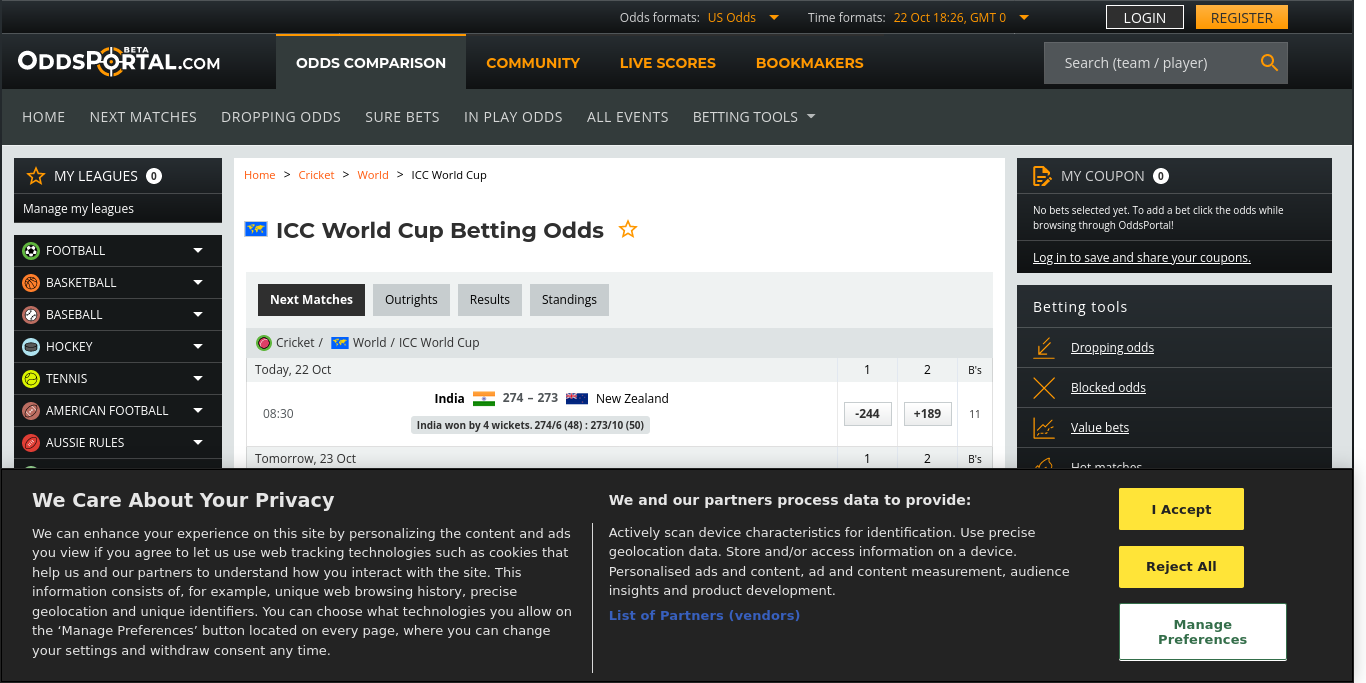
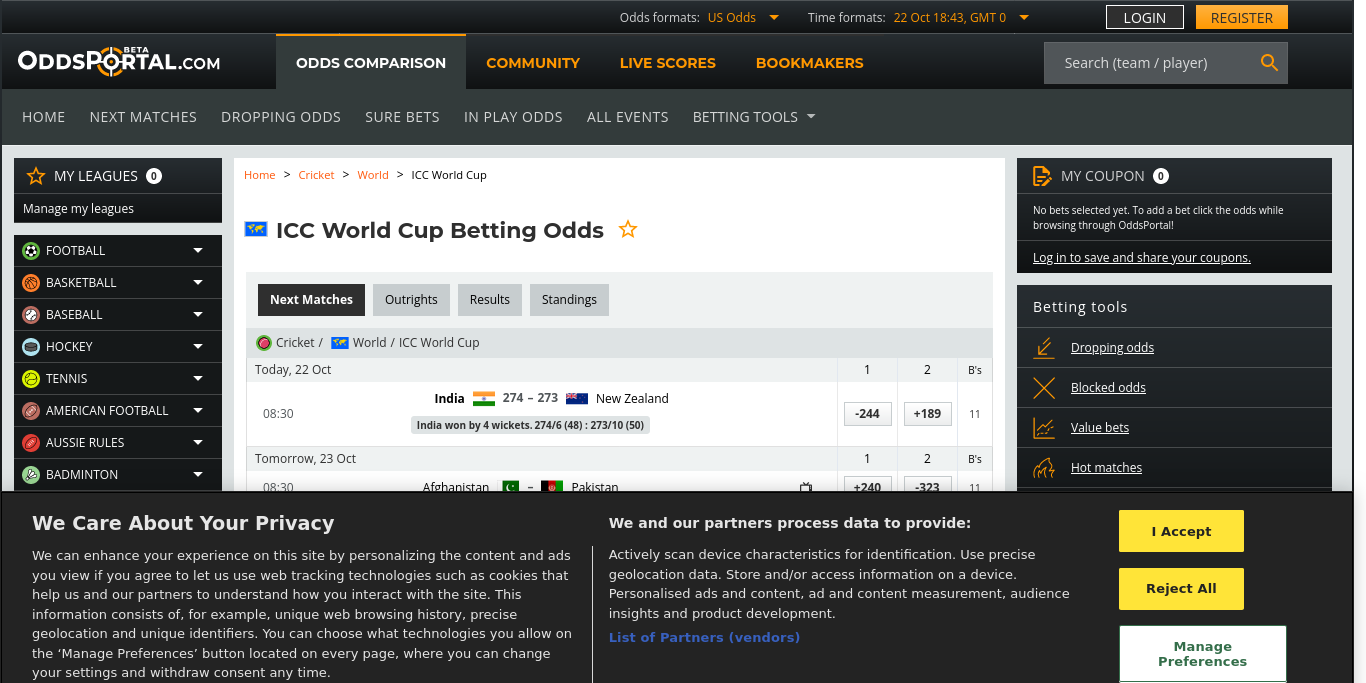
Update Data (Cron) Sun Oct 22 18:43:52 UTC 2023

Changed region(s): [[0.0, 0.6764, 0.9531, 1.0], [0.9531, 0.6764, 1.0, 0.7379], [0.4305, 0.9839, 0.4612, 1.0]]

diff --git a/src/nonview/data/TEAM1_ID_TO_TEAM2_ID_TO_ODDS_PAIR.js b/src/nonview/data/TEAM1_ID_TO_TEAM2_ID_TO_ODDS_PAIR.js
@@ -1,6 +1,6 @@
 // Auto Generated by UpdateTeam1IDToTeam2IDToOddsPair
 // https://www.oddsportal.com/cricket/world/icc-world-cup/
-// 2023-10-22 23:56:16 +0000
+// 2023-10-23 00:13:45 +0000
 
 import { TEAM } from "../core/Team.js";
 
@@ -16,7 +16,7 @@ export const TEAM1_ID_TO_TEAM2_ID_TO_ODDS_PAIR = {
     [TEAM.PAK.id]: [1.75, 2.08],
   },
   [TEAM.AUS.id]: {
-    [TEAM.NLD.id]: [1.05, 9.57],
+    [TEAM.NLD.id]: [1.05, 9.55],
     [TEAM.NZL.id]: [1.58, 2.38],
   },
   [TEAM.ENG.id]: {

diff --git a/src/nonview/constants/VERSION.js b/src/nonview/constants/VERSION.js
@@ -1,4 +1,4 @@
 // Auto-generated by javascript_version.py
-export const VERSION_UT = 1697999184;
+export const VERSION_UT = 1698000232;
 export const VERSION_DATETIME = new Date(VERSION_UT * 1_000);
 export const LAST_COMMIT_MESSAGE = "Updated 📊Data";

diff --git a/src/nonview/data/TEAM_ID_TO_P_WINNER.js b/src/nonview/data/TEAM_ID_TO_P_WINNER.js
@@ -1,6 +1,6 @@
 // Auto Generated by UpdateTeamIDToPWinner
 // https://www.oddsportal.com/cricket/world/icc-world-cup/outrights/
-// 2023-10-22 23:56:23 +0000
+// 2023-10-23 00:13:51 +0000
 
 export const TEAM_ID_TO_P_WINNER = {
   IND: 0.440839, // 44%

diff --git a/src/nonview/data/ODI_ID_TO_WINNER.js b/src/nonview/data/ODI_ID_TO_WINNER.js
@@ -1,6 +1,6 @@
 // Auto Generated by UpdateODIIDToWinner
 // https://www.cricbuzz.com/cricket-series/6732/icc-cricket-world-cup-2023/matches
-// 2023-10-22 23:55:46 +0000
+// 2023-10-23 00:13:26 +0000
 
 import { TEAM } from "../core/Team.js";
 

diff --git a/src/nonview/data/POINTS_TABLE.js b/src/nonview/data/POINTS_TABLE.js
@@ -1,6 +1,6 @@
 // Auto Generated by UpdatePointsTable
 // https://www.cricketworldcup.com/standings
-// 2023-10-22 23:55:55 +0000
+// 2023-10-23 00:13:36 +0000
 
 import { TEAM } from "../core/Team.js";
 
